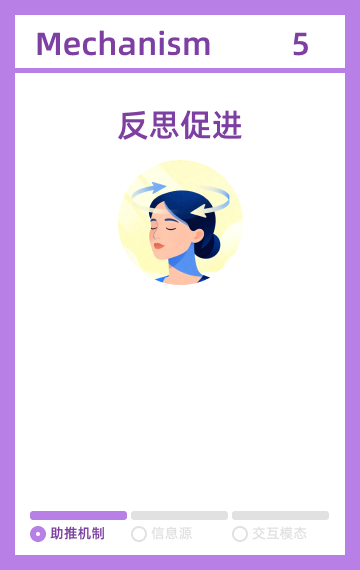
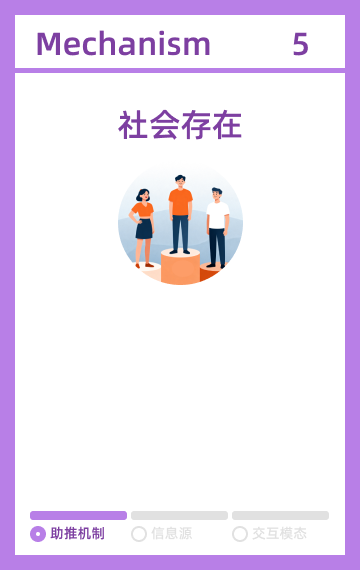
111

Changed region(s): [[0.3056, 0.1789, 0.6722, 0.507]]

diff --git a/src/pages/Page10_1.jsx b/src/pages/Page10_1.jsx
@@ -8,6 +8,7 @@ import Mec5 from '../assets/卡片/正面/Mec-5-1.png';
 import Mec6 from '../assets/卡片/正面/Mec-6-1.png';
 import Mec7 from '../assets/卡片/正面/Mec-7-1.png';
 import Mec8 from '../assets/卡片/正面/Mec-8-1.png';
+import Mec9 from '../assets/卡片/正面/Mec-9-1.png';
 import ArrowLeft from '../assets/网页素材/向左.svg';
 import ArrowRight from '../assets/网页素材/向右.svg';
 import SelectButtonSVG from '../assets/页面剩余素材/Page68101214按钮.svg';
@@ -19,16 +20,20 @@ import styles from './styles/Page10_Mec_1.module.css';
 import { useTimeline } from '../context/TimelineContext';
 import { useDesign } from '../context/DesignContext';
 import { getAiResponse } from '../services/aiService';
+import InfoIcon from '../assets/网页素材/设计策略按钮.png'; // 左上角那个灯泡/SYNC图标
+import StrategyLongImage from '../assets/页面剩余素材/助推机制设计策略.png'; // 弹窗里的那张长图
+import CloseIcon from '../assets/页面剩余素材/总结页面关闭按钮.png';
 
 const cards = [
   { id: 1, src: Mec1, name: '情景感知提醒' },
-  { id: 2, src: Mec2, name: '共情反馈' },
-  { id: 3, src: Mec3, name: '决策引导' },
-  { id: 4, src: Mec4, name: '社会存在' },
-  { id: 5, src: Mec5, name: '反思促进' },
-  { id: 6, src: Mec6, name: '动态目标重建' },
-  { id: 7, src: Mec7, name: '叙事化探索' },
-  { id: 8, src: Mec8, name: '诱饵效应' },
+  { id: 2, src: Mec2, name: '情感激励' },
+  { id: 3, src: Mec3, name: '指导性反馈' },
+  { id: 4, src: Mec4, name: '决策引导' },
+  { id: 5, src: Mec5, name: '社会存在' },
+  { id: 6, src: Mec6, name: '反思促进' },
+  { id: 7, src: Mec7, name: '动态目标重建' },
+  { id: 8, src: Mec8, name: '叙事化探索' },
+  { id: 9, src: Mec9, name: '诱饵效应' },
 ];
 
 const CURRENT_STAGE_ID = 4; // 对应 BranchSelector 中的紫色节点 (Stage 4)
@@ -169,6 +174,14 @@ const Page10_1 = () => {
         <BranchSelector />
       </div>
       <div className={styles.mainContent}>
+        <button 
+          className={styles.infoButton} 
+          onClick={() => setIsModalOpen(true)}
+        >
+          {/* 这里放置你的图标，根据截图可能是一个灯泡或SYNC文字 */}
+          <img src={InfoIcon} alt="SYNC" />
+          <span>SYNC</span> 
+        </button>
         <div className={styles.cardCarousel}>
           <button onClick={handlePrev} className={styles.arrowButton}>
             <img src={ArrowLeft} alt="上一张" />

diff --git a/src/pages/Page11_2.jsx b/src/pages/Page11_2.jsx
@@ -18,6 +18,7 @@ import Mec5 from '../assets/卡片背面/Mec-5-2.png';
 import Mec6 from '../assets/卡片背面/Mec-6-2.png';
 import Mec7 from '../assets/卡片背面/Mec-7-2.png';
 import Mec8 from '../assets/卡片背面/Mec-8-2.png';
+import Mec9 from '../assets/卡片背面/Mec-9-2.png';
 import ArrowLeft from '../assets/网页素材/向左.svg';
 import ArrowRight from '../assets/网页素材/向右.svg';
 import NextButtonSVG from '../assets/页面剩余素材/Next按钮.svg';
@@ -28,13 +29,14 @@ const CURRENT_STAGE_ID = 4;
 
 const allCards = [
   { id: 1, image: Mec1, name: '情景感知提醒' },
-  { id: 2, image: Mec2, name: '共情反馈' },
-  { id: 3, image: Mec3, name: '决策引导' },
-  { id: 4, image: Mec4, name: '社会存在' },
-  { id: 5, image: Mec5, name: '反思促进' },
-  { id: 6, image: Mec6, name: '动态目标重建' },
-  { id: 7, image: Mec7, name: '叙事化探索' },
-  { id: 8, image: Mec8, name: '诱饵效应' },
+  { id: 2, image: Mec2, name: '情感激励' },
+  { id: 3, image: Mec3, name: '指导性反馈' },
+  { id: 4, image: Mec4, name: '决策引导' },
+  { id: 5, image: Mec5, name: '社会存在' },
+  { id: 6, image: Mec6, name: '反思促进' },
+  { id: 7, image: Mec7, name: '动态目标重建' },
+  { id: 8, image: Mec8, name: '叙事化探索' },
+  { id: 9, image: Mec9, name: '诱饵效应' },
 ];
 
 const Page11_2 = () => {

diff --git a/src/pages/Page5_Target-Stage.jsx b/src/pages/Page5_Target-Stage.jsx
@@ -77,11 +77,10 @@ const Page5_TargetStage = () => {
   };
 
   // 初始消息保持不变，因为它已经包含了足够的上下文
-  const initialBotMessage = `接下来，我们来看看你的设计希望在行为改变的哪个阶段发挥作用吧。我这里有三个阶段供你参考：\
-  一、准备阶段：帮助用户意识到健康问题的重要性，并提供实际行动的准备支持；\
-  二、行动阶段：推动用户从意识到实际行动，帮助他们采取具体的健康行为，并提供行动所需的资源与支持；\
-  三、维持阶段：帮助用户保持并巩固健康行为，强化其长期坚持的动力和能力。\
-  你觉得你的设计想聚焦在哪个阶段呢？可以和我聊聊你的想法。`;
+  const initialBotMessage = `让我们一起确定你的设计阶段吧！
+  接下来，我们来看看你的设计希望在行为改变的哪个阶段发挥作用吧。
+  我这里有四个阶段供你参考：目标设定阶段、策略规划阶段、执行检测阶段和自我反思阶段。
+  你想主要细化哪一阶段的策略呢？可以和我聊聊你的想法。`;
 
 
   return (
